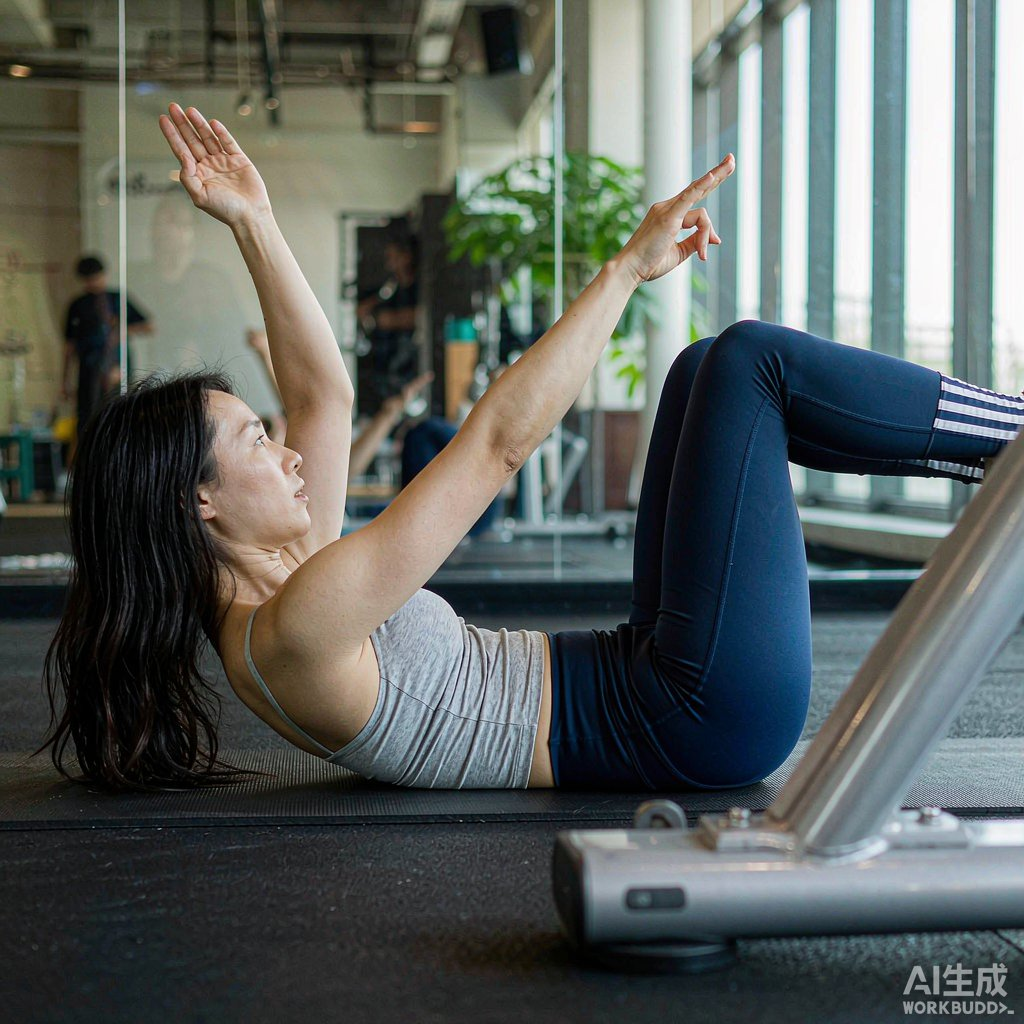
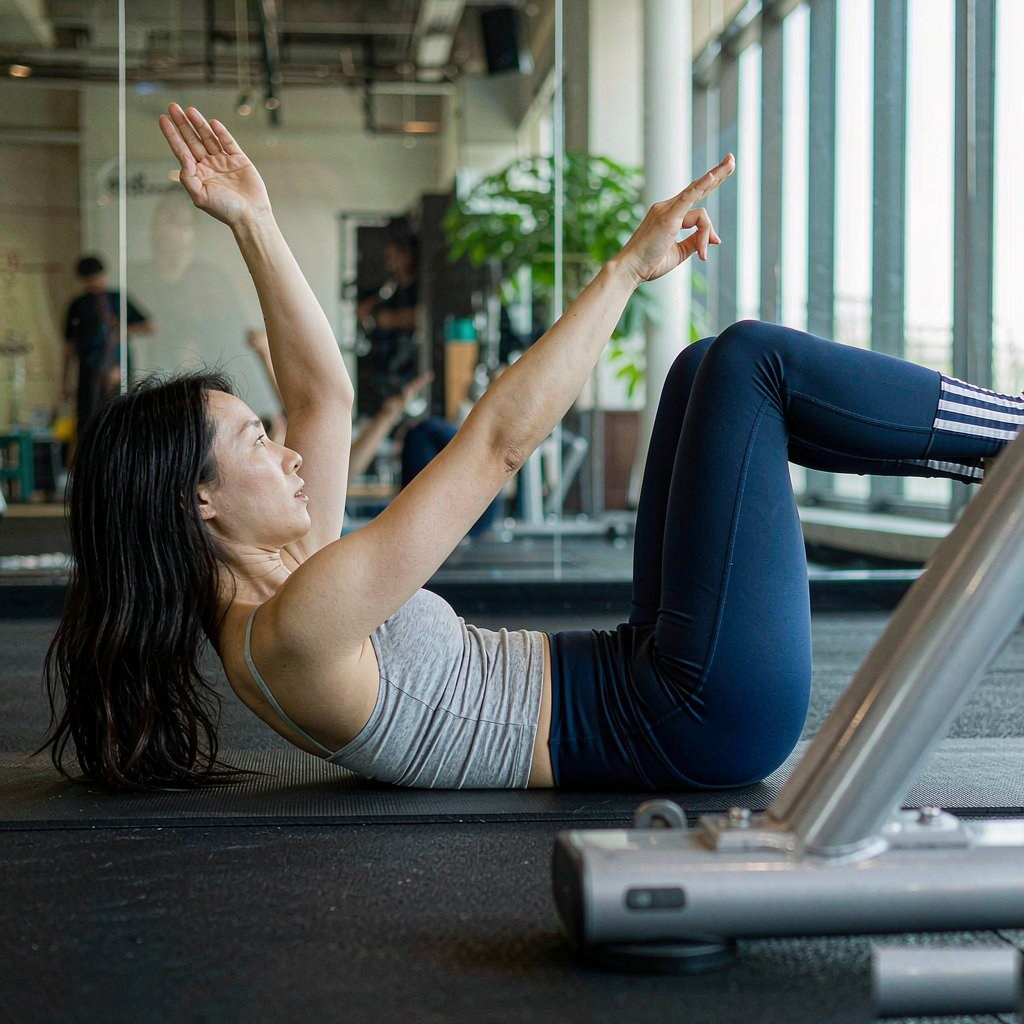
内容：动作配图完善——28/28 全部有照片、纠错重做、去除水印（v0.4.4）
问题：训练分区 28 个动作里 4 个仍用 SVG 示意图；拼 28 格缩略表逐张核对后发现更多问题——
e003/e006/e014 原图只有器械没有人，e015/e019/e023/e026 动作画错，e011/e012 风格与实拍不齐，
且上批 14 张 AI 图右下角带「AI生成 WORKBUDDY」水印。
原因：AI 生图对「器械/悬垂/俯撑」类复杂姿势理解不稳，中文长提示词会稀释动作主体；
工具 footnote 参数传空串仍强制加水印，只能本地处理。
修复：补齐 e005/e007/e008/e010 四张缺图并回填动作.js 的图片字段；
重做 9 张（含 5 张首轮仍画错、改用英文短提示词把关键约束提到句首二次重做）；
23 张 AI 图统一用羽化覆盖右下角 155x84px 区域去水印，不使用联网修图；
5 张原有横版课程素材保留不动，靠 object-fit: cover 统一裁切。
用户拍板保留内置 SVG 兜底代码，当前无动作触发。
验证：五个测试全绿（核对动作输出 28/28 有照片、逻辑复算 99 项失败 0）；
核对动作.py 新增图片文件非空校验防裂图；28 个 JPG 全部通过 PIL 完整性校验，共 5.0 MB。
文档：PRD v0.4.4（5.8 示意图机制、功能进度表）、两级 README 版权与目录树、
A1 验收契约 3.5 节与第 21 项（原「深蹲无照片应显示 SVG」改为检查本地照片）、
A1 自测操作卡第 3 步、交接说明快照同步；顺带修正根 README 与 A1 契约残留的
「逻辑复算 81 项」为实测 99 项；.gitignore 忽略两批生图 PNG 原图缓存。

Changed region(s): [[0.8438, 0.9062, 1.0, 1.0]]

diff --git a/自选作品/数据/动作.js b/自选作品/数据/动作.js
@@ -104,7 +104,7 @@ window.动作数据 = [
     ],
     "常见错误": ["膝盖内扣", "弓背后仰", "脚跟离地"],
     "建议": "4 组 × 12–15 次",
-    "图片": ""
+    "图片": "数据/动作图片/e005.jpg"
   },
   {
     "id": "e006", "名称": "硬拉", "部位": "下肢", "器械": "杠铃",
@@ -120,7 +120,7 @@ window.动作数据 = [
     "要点": ["前脚膝盖不超过脚尖", "身体竖直下沉", "后膝接近地面但不触地"],
     "常见错误": ["前膝内扣", "身体前倾过多"],
     "建议": "3 组 × 每侧 10 次",
-    "图片": ""
+    "图片": "数据/动作图片/e007.jpg"
   },
   {
     "id": "e018", "名称": "臀桥", "部位": "下肢", "器械": "自重",
@@ -187,7 +187,7 @@ window.动作数据 = [
     ],
     "常见错误": ["腰部塌陷", "臀部过高", "头部抬得太高"],
     "建议": "3 组 × 30–60 秒",
-    "图片": ""
+    "图片": "数据/动作图片/e008.jpg"
   },
   {
     "id": "e009", "名称": "卷腹", "部位": "核心", "器械": "自重",
@@ -203,7 +203,7 @@ window.动作数据 = [
     "要点": ["肘部位于肩膀正下方", "身体侧向保持一条直线", "髋部不要下沉"],
     "常见错误": ["髋部下沉", "身体前后倾倒"],
     "建议": "3 组 × 每侧 30 秒",
-    "图片": ""
+    "图片": "数据/动作图片/e010.jpg"
   },
   {
     "id": "e011", "名称": "仰卧起坐", "部位": "核心", "器械": "自重",

diff --git a/自选作品/测试/核对动作.py b/自选作品/测试/核对动作.py
@@ -92,6 +92,8 @@ for i, 动作 in enumerate(数据):
             错误.append(f"{位置} 图片必须是本地文件: {图片}")
         elif not (根 / 图片).exists():
             错误.append(f"{位置} 图片文件不存在: {图片}")
+        elif (根 / 图片).stat().st_size < 1024:
+            错误.append(f"{位置} 图片文件过小，疑似损坏: {图片}")
 
 # 部位覆盖统计
 print(f"动作总数: {len(数据)}")

diff --git a/交接说明.md b/交接说明.md
@@ -36,9 +36,27 @@
 - 纯函数 `专区显示条数()` 暴露给测试；逻辑复算新增【14】6 项（75 → 81）
 - PRD v0.4.3（5.6 第 8 条、5.7 版式要点、功能进度表）、两级 README、A1 契约（33 → 35 项，新增 #34/#35）、本节快照同步
 
-**当前状态**：五个测试全绿（逻辑复算 81 项）；PRD v0.4.3；A1 验收契约 35 项。
+**当前状态**：五个测试全绿（逻辑复算 99 项）；PRD v0.4.3；A1 验收契约 35 项。
 
-**遗留（需用户本人完成）**：A1 同伴试用反馈与 33 项自测。
+**2026-11-15（用户反馈：把健身那的照片完善一下）**——动作配图完善（v0.4.4）：
+
+- 用户拍板范围「补齐 + 纠错」、SVG 兜底代码保留。先拼 28 格缩略检查表逐张人工核对，发现问题比预想多
+- 补齐 4 张缺图（e005 深蹲 / e007 弓步蹲 / e008 平板支撑 / e010 侧支撑），**28/28 全部有本地照片**
+- 重做 9 张：e003 / e006 / e014 原图只有器械没有人，e011 / e012 风格与实拍不齐，
+  e015 / e019 / e023 / e026 动作画错。其中 5 张 AI 首轮仍画错，改用英文短提示词、
+  把关键约束提到句首二次重做才画对（中文长提示词会稀释动作主体）
+- 生图工具的 `footnote` 参数传空串仍会强制加「AI生成 WORKBUDDY」水印：
+  改为本地羽化覆盖右下角 155×84px 区域，23 张 AI 图统一去水印，不用联网修图
+- 配图构成：5 张课程专用素材（480×320）+ 23 张 AI 实拍风格照片（1024×1024）；
+  原有 5 张横版照片保留不动，卡片靠 `object-fit: cover` 统一裁切
+- 文档：PRD v0.4.4（5.8 示意图机制、功能进度表）、两级 README 版权与目录树、
+  A1 契约 3.5 节与第 21 项（原写「深蹲无照片应显示 SVG」已改为检查本地照片）、
+  A1 自测操作卡第 3 步、交接说明本节同步
+- 同伴试用反馈表里「想把健身图片替换一下」这条内容偏好，本版已处理
+
+**当前状态**：五个测试全绿（核对动作 28/28 有照片、逻辑复算 99 项）；PRD v0.4.4；A1 验收契约 35 项（第 21 项已改为本地照片检查）。
+
+**遗留（需用户本人完成）**：A1 同伴试用反馈与 35 项自测。
 
 ---
 
@@ -242,8 +260,8 @@ D:\python\python.exe 测试\检查契约.py
 | 脚本 | 期望 |
 |---|---|
 | 核对数据.py | `[通过] 全部食谱符合字段契约，公式与 PRD 一致` |
-| 核对动作.py | `[通过] 全部动作符合字段契约`（28 个动作，24 有照片、4 用示意图，含器械字段） |
-| 逻辑复算.py | `通过 40 项，失败 0 项` |
+| 核对动作.py | `[通过] 全部动作符合字段契约`（28 个动作，28/28 有照片，含器械字段） |
+| 逻辑复算.py | `通过 99 项，失败 0 项` |
 | 检查语法.py | 三类括号全部 OK |
 | 检查契约.py | `[通过] 所有 取元素() 引用都能在页面中找到对应元素` |
 
@@ -380,7 +398,7 @@ D:\lab\
 |---|---|
 | 更新 README | 根目录 `README.md` 与 `自选作品/README.md` 尚未写入训练功能 |
 | 更新 A1 验收契约 | 17 项清单可增加训练分区的检查项 |
-| 补充动作图片 | 深蹲、弓步蹲、平板支撑、侧支撑目前用 SVG 示意图，如有合适照片可替换 |
+| 补充动作图片 | ✅ 已完成（v0.4.4）：28/28 动作全部有本地照片，SVG 兜底代码保留 |
 
 ---
 

diff --git a/作业/A1/A1-验收契约.md b/作业/A1/A1-验收契约.md
@@ -2,7 +2,7 @@
 
 > 作业 A1 第 2 评分项：**验收契约（2 分）**
 > 作品：食谱搭配（吃练一体，`自选作品`）
-> 版本：v0.4.3 ｜ 日期：2026-11-14（检查清单 17 → 27 → 30 → 27 → 33 → 35 项：v0.4 移除 AI 后 27 项，v0.4.1 功能增强新增 6 项，v0.4.3 版式优化新增 2 项）
+> 版本：v0.4.4 ｜ 日期：2026-11-15（检查清单 17 → 27 → 30 → 27 → 33 → 35 项；v0.4.4 动作配图补齐后，第 21 项由「检查 SVG 示意图」改为「检查本地照片」，项数不变）
 
 ---
 
@@ -81,7 +81,7 @@
 - 顶部导航两个分区：🥗 饮食 / 💪 训练，可来回切换
 - 动作按 上肢 / 下肢 / 核心 / 全身 四个分区浏览，共 28 个（每部位 7 个，卡片带器械标签）
 - 每个动作卡片含：目标肌群、要点（3–5 条）、常见错误（1–3 条）、建议组数、配图
-- 有照片的显示本地照片，无照片的自动显示 SVG 示意图，**不出现裂图**
+- 28 个动作全部显示本地照片，**不出现裂图**；找不到照片时自动显示 SVG 示意图的兜底代码仍保留（当前无动作触发）
 - 分区底部有「安全说明」卡片，明确声明不构成专业教练指导或医疗建议
 
 ---
@@ -110,7 +110,7 @@
 | 18 | 点顶部「训练」按钮 | 切换到训练分区 | 出现「健身动作教程」，可切回饮食分区 |
 | 19 | 查看训练分区按钮 | 上肢/下肢/核心/全身，各带数量 | 四个分区合计 28 个动作；动作卡显示器械标签 |
 | 20 | 点击「下肢」分区 | 只显示下肢动作卡片 | 卡片含目标肌群、要点、常见错误、建议、配图 |
-| 21 | 找一个无照片的动作（如深蹲） | 显示 SVG 示意图 | 不出现裂图，图片不依赖网络 |
+| 21 | 查看任意动作卡（如深蹲） | 显示对应的本地照片 | 不出现裂图，图片不依赖网络；28/28 有照片，SVG 兜底代码保留 |
 | 22 | 滚动到训练分区底部 | 有「安全说明」卡片 | 明确写着不构成专业教练指导或医疗建议 |
 | 23 | 食谱卡上点「做法」 | 展开食材与步骤 | 显示食材清单和分步步骤，再点可收起 |
 | 24 | 记录一道菜后看「今日已记录」 | 条目旁有餐次标记 | 按当前时间归入 早 / 午 / 晚 / 加餐 |
@@ -145,7 +145,7 @@
 | 能运行 | 双击即可打开，无需安装任何依赖 |
 | 可观察 | 上述 35 项检查全部通过（第 33 项可由测试脚本代替） |
 | 可交接 | 他人仅凭 `README.md` 就能复现与操作 |
-| 有证据 | 30+ 条规范提交记录 + 5 个自动化测试脚本全绿（其中逻辑复算 81 项） |
+| 有证据 | 30+ 条规范提交记录 + 5 个自动化测试脚本全绿（其中逻辑复算 99 项） |
 
 ---
 

diff --git a/自选作品/PRD.md b/自选作品/PRD.md
@@ -1,6 +1,6 @@
 # PRD · 食谱搭配网页
 
-版本：v0.4.3 ｜ 更新日期：2026-11-14 ｜ 状态：饮食/训练双分区 + CookHero 式饮食管理 + 功能增强 + 动作库扩充 + 版式优化（纯离线）
+版本：v0.4.4 ｜ 更新日期：2026-11-15 ｜ 状态：饮食/训练双分区 + CookHero 式饮食管理 + 功能增强 + 动作库扩充 + 版式优化 + 配图完善（纯离线）
 
 ---
 
@@ -204,8 +204,10 @@
 **示意图机制**
 
 找不到准确照片的动作**不放错图**，改用内置 SVG 简笔示意图（按部位区分姿态剪影）。
-当前 24 个动作有实拍照片（原 10 张 + v0.4.2 新增 14 张 AI 生成配图，供本课程作品使用），
-4 个（深蹲、弓步蹲、平板支撑、侧支撑）使用示意图。
+**v0.4.4 起 28 个动作全部有本地照片**，示意图作为兜底机制保留在代码中，当前无动作触发。
+配图构成：5 张课程专用素材（e001 / e002 / e004 / e009 / e013）+
+23 张 AI 生成的健身房实拍风格照片（v0.4.2 新增 14 张，v0.4.4 补齐 4 张缺图、重做 9 张画错或风格不齐的）。
+v0.4.4 统一去除生图工具加在右下角的水印。全部为本地文件，断网可显示。
 
 **安全边界（重要）**
 
@@ -290,6 +292,7 @@
 | **页面分区重构（饮食/训练双分区）** | ✅ 已完成 | v0.2 |
 | **健身动作教程（28 个动作 / 4 部位 / 器械标签，v0.4.2 扩充）** | ✅ 已完成 | v0.2 / v0.4.2 |
 | **版式优化（首屏并排 / 计划前置 / 专区限量 / 区块导航）** | ✅ 已完成 | v0.4.3 |
+| **动作配图完善（28/28 有照片 / 补齐缺图 / 纠错重做 / 去水印）** | ✅ 已完成 | v0.4.4 |
 | **食材与做法（卡片展开查看）** | ✅ 已完成 | v0.2 |
 | **餐次记录 + 一键标记已吃** | ✅ 已完成 | v0.2 |
 | **宏量营养目标 + 计划偏差分析** | ✅ 已完成 | v0.2 |

diff --git a/README.md b/README.md
@@ -74,7 +74,7 @@ D:\lab\
 │   │   ├── 食谱.js         同数据的 JS 版本，供网页加载
 │   │   ├── 动作.js         28 个健身动作数据（含器械字段）
 │   │   ├── 图片/          40 张本地食谱配图
-│   │   └── 动作图片/       10 张动作配图
+│   │   └── 动作图片/       28 张动作配图
 │   └── 测试/              5 个 Python 测试脚本
 │
 ├── 作业/                  各次作业材料
@@ -96,7 +96,7 @@ D:\lab\
 cd 自选作品
 python 测试/核对数据.py     # 40 条食谱字段契约（含食材与步骤）+ 图片路径有效性
 python 测试/核对动作.py     # 28 个动作字段契约
-python 测试/逻辑复算.py     # 81 项：卡路里公式 / 营养汇总 / 推荐 / 一周计划 / 宏量目标 / 功能增强 / 限量显示
+python 测试/逻辑复算.py     # 99 项：卡路里公式 / 营养汇总 / 推荐 / 一周计划 / 宏量目标 / 功能增强 / 限量显示
 python 测试/检查语法.py     # JS 括号配对
 python 测试/检查契约.py     # HTML 的 id 与 JS 的取元素() 一致性
 ```
@@ -148,6 +148,7 @@ python 测试/检查契约.py     # HTML 的 id 与 JS 的取元素() 一致性
 
 - 食物图片：24 张来自 [Unsplash](https://unsplash.com)，遵循 Unsplash License；
   2 张为课程作业专用素材；16 张（r025–r040）为 AI 生成配图。
+- 动作配图：5 张课程专用素材 + 23 张 AI 生成的健身房实拍风格照片，均为本地文件，断网可显示。
 - 新增菜品（r025–r040）的做法参考
   [《减脂饮食全书》](https://github.com/da-damu/fat-loss-diet-book)整理，营养值为教学用估算。
 - 作品代码：课程学习用途。

diff --git a/自选作品/README.md b/自选作品/README.md
@@ -44,7 +44,7 @@
 │   ├── 食谱.js          同上数据的 JS 版本，供网页直接加载
 │   ├── 动作.js          28 个健身动作数据（含器械字段）
 │   ├── 图片/           40 张食谱本地配图
-│   └── 动作图片/        10 张动作配图
+│   └── 动作图片/        28 张动作配图（全部动作有图）
 └── 测试/
     ├── 核对数据.py      校验 40 条食谱是否符合字段契约
     ├── 核对动作.py      校验 28 个动作字段契约
@@ -104,7 +104,9 @@ python 测试/检查契约.py     # HTML id 与 JS 引用是否一致
 
 - 食物图片：24 张来自 [Unsplash](https://unsplash.com)，遵循 Unsplash License；
   2 张为课程作业专用素材；16 张（r025–r040）为 AI 生成配图。
-- 动作配图：原 10 张来自课程专用素材；14 张（e015–e028）为 AI 生成配图（2026-11-14）。
+- 动作配图：28 张全部为本地文件。5 张课程专用素材（e001 / e002 / e004 / e009 / e013），
+  23 张 AI 生成的健身房实拍风格照片（2026-11-14 新增 14 张；2026-11-15 补齐 4 张缺图、
+  重做 9 张画错或风格不齐的，并统一去除生图工具右下角水印）。
   参考数据集 [exercises-dataset-zh](https://github.com/Devillmy/exercises-dataset-zh)
   的文字说明（MIT License）；其图片/GIF 媒体（© Gym visual）未使用。
 - 新增菜品（r025–r040）的做法参考

diff --git a/作业/A1/A1-自测操作卡.md b/作业/A1/A1-自测操作卡.md
@@ -198,7 +198,7 @@ A1 验收契约的 3.5 节描述了训练分区，但检查清单没列。建议
 
 1. 点顶部「训练」
 2. 看到按 上肢 / 下肢 / 核心 / 全身 分区，共 28 个动作
-3. 找「深蹲」——它没有照片，应显示**绿色火柴人示意图**，而不是裂图
+3. 找「深蹲」——现在有本地照片，应正常显示且**不是裂图**；若将来某动作缺图，会显示绿色火柴人示意图（兜底机制保留）
 4. 底部有「安全说明」卡片
 
 这一项如果没问题，可以在交作业时**主动提一句**，说明你验证过，是加分印象。
